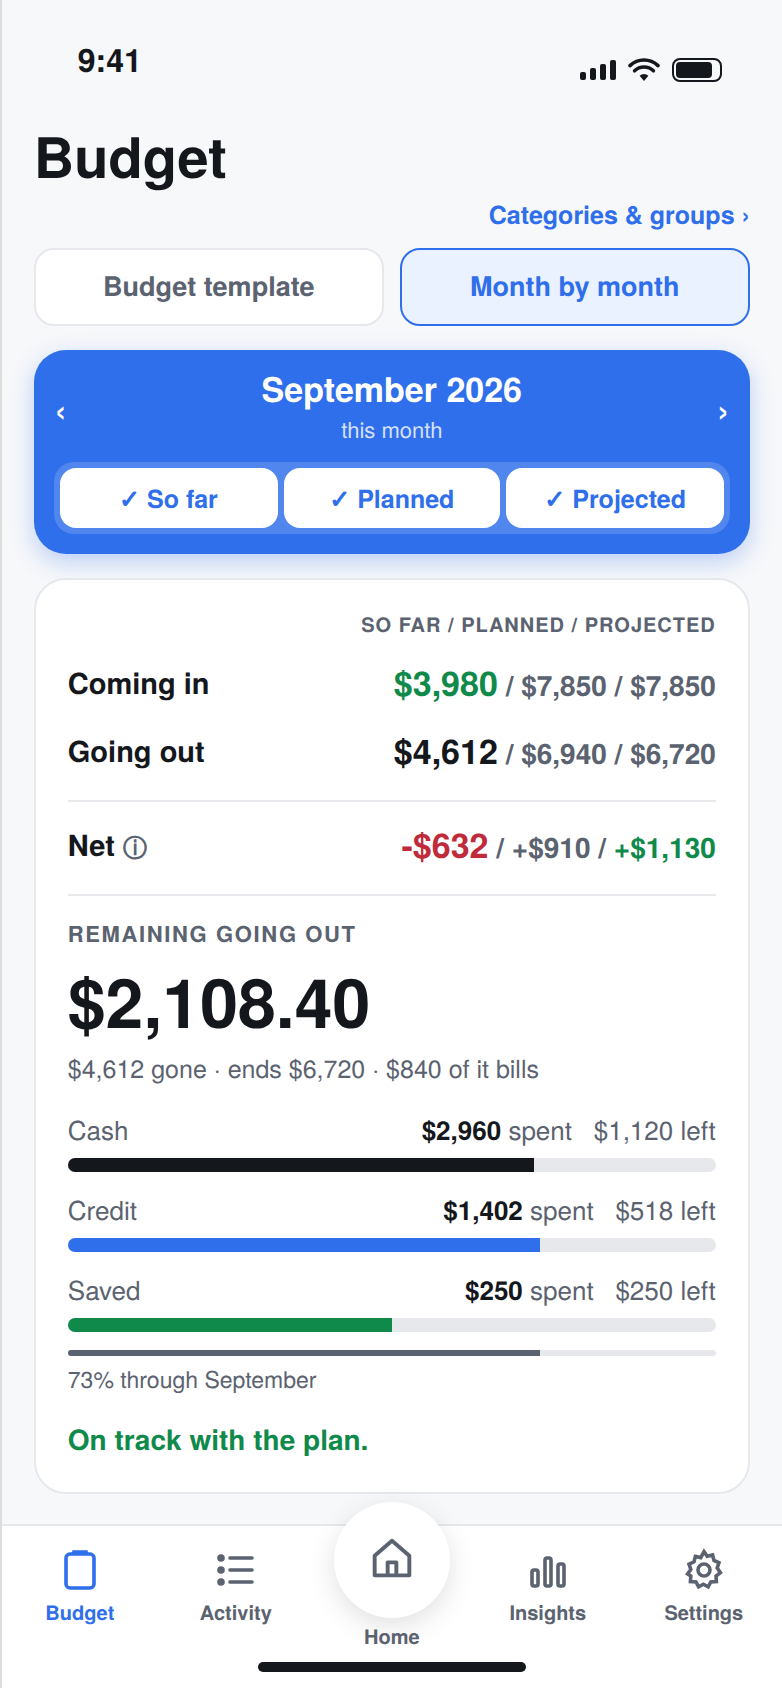
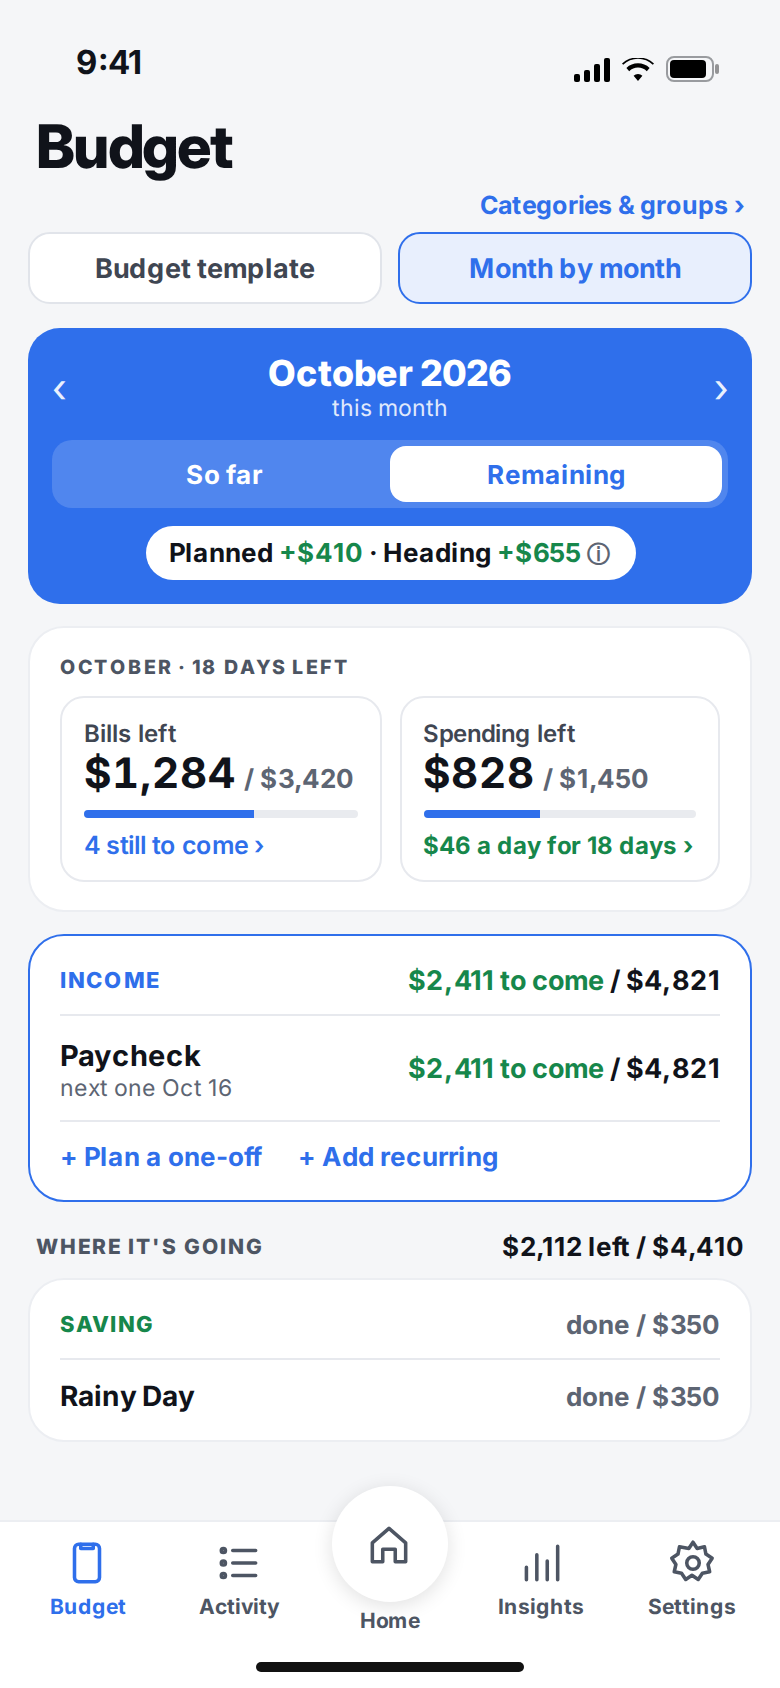
Fresh screenshots of the current app (sample data)
Home with the check-in and Extra in the next 30 days, floating spend and savings,
Budget month by month, and Insights. Alt text updated to match.

Claude-Session: https://claude.ai/code/session_01UiP6KADRHM9mkW8wZhm2bM

diff --git a/index.html b/index.html
@@ -75,7 +75,7 @@
     </div>
     <p class="note" style="margin-top:14px">Read-only. Flo never moves money and never sees your bank password.</p>
   </div>
-  <div class="hero-shot"><img class="phone" src="/img/home.png" width="390" height="844" alt="Flo's Home screen: balance today, where it lands at the end of the year, and a projected balance chart that dips below $0 in November"></div>
+  <div class="hero-shot"><img class="phone" src="/img/home.png" width="390" height="844" alt="Flo's Home screen: a check-in on cash flow, spending and savings, today's balance and where it lands in three months, how much is extra in the next 30 days, and a projected balance chart"></div>
   <div class="waves hero-waves" aria-hidden="true"><i></i><i></i><i></i></div>
 </section>
 
@@ -120,9 +120,9 @@
   <h2>Built for the question you ask at the register</h2>
   <p class="sub">Flo isn't a net-worth dashboard or an envelope system. It answers one thing well: <i>can I afford this without causing a problem later?</i></p>
   <div class="shots">
-    <div class="shot"><img src="/img/cards-savings.png" width="390" height="844" alt="A savings goal with its month-by-month climb, and floating spend on credit cards"><p>Savings goals, and what's floating on your cards</p></div>
+    <div class="shot"><img src="/img/cards-savings.png" width="390" height="844" alt="Floating spend on credit cards, and a savings goal with its month-by-month climb, two months ahead"><p>Savings goals, and what's floating on your cards</p></div>
     <div class="shot"><img src="/img/budget.png" width="390" height="844" alt="Budget, month by month, with so far, planned and projected figures"><p>Budget: so far, planned and projected, month by month</p></div>
-    <div class="shot"><img src="/img/insights.png" width="390" height="844" alt="Insights: spending by category as a donut and twelve months of stacked bars"><p>Insights: where it went, month by month</p></div>
+    <div class="shot"><img src="/img/insights.png" width="390" height="844" alt="Insights: spending by category as a donut and six months of stacked bars"><p>Insights: where it went, month by month</p></div>
   </div>
   <p class="sample">Screens show sample data.</p>
 </section>
